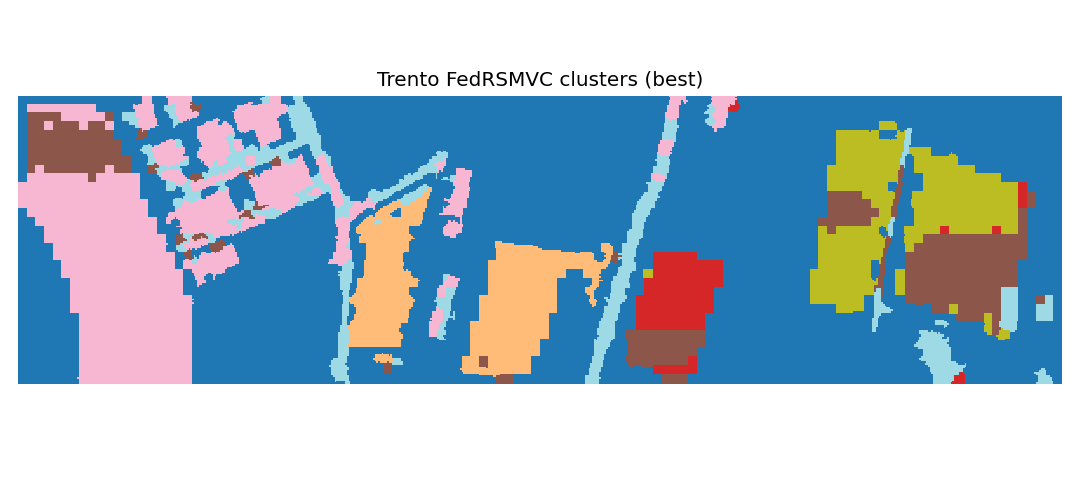
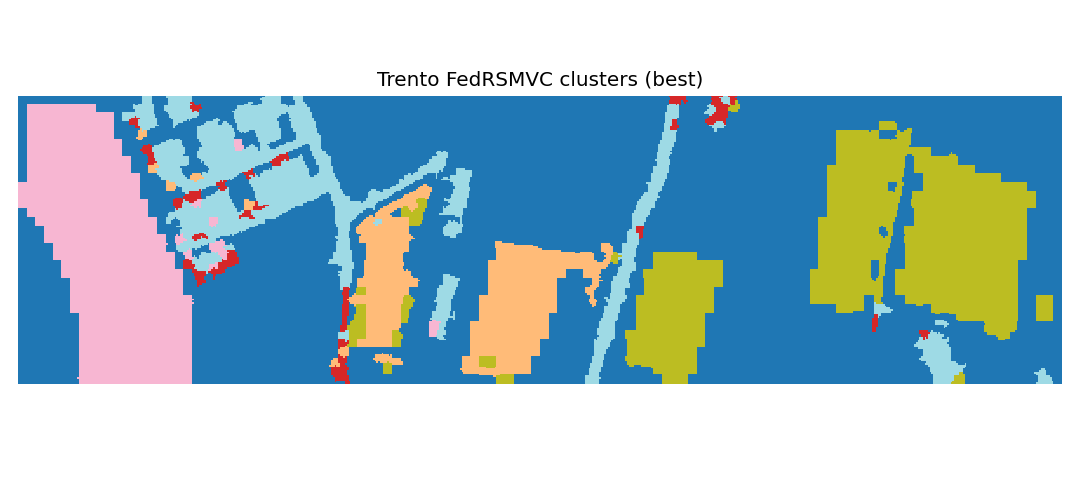
停止跟踪 save/，并回收历史里的 8.9 GB 检查点
问题：FedRSMVC 的客户端检查点写进了本目录的 save/（它内部用相对路径），
而我此前多次用 `git add -A`，把 4500 个文件（8.9 GB）提交进了仓库，导致
.git 膨胀到 8.3 GB；后续 `git add -A` 因为要哈希这些文件直接挂住。

处理：
1. .gitignore 加 save/（以及 FedRSMVC 用相对路径写出的图 *_log.csv / *_sp.pdf）
2. `git rm -r --cached save/` 取消跟踪（磁盘文件保留）
3. 回退了把 4500 个文件塞进来的那个提交，使其不可达，随后 gc 回收

教训：跑第三方框架前先确认它的输出落点，并把它加进 .gitignore。
本次是适配器不 chdir 造成的——它的 save 路径在 config 里是相对路径，
我虽改了两处为绝对路径，但模型保存走的是另一处硬编码相对路径。

另修（我引入的 bug）：FedRSMVC 适配器未播种
它的 set_seed() 定义在 main.py、由 main() 调用，而适配器直接构造 FLSimulator
不走 main()，所以完全没固定种子。实测同配置两个种子给出 Trento
0.7166 / 0.5331（差 18 个点）。已内联复刻 set_seed，验证连跑两次结果完全相同。
此前 8 条未播种记录已作废（archive/runs_含未播种FedRSMVC_2026-10-14.jsonl）。

diff --git a/methods/fedrsmvc.py b/methods/fedrsmvc.py
@@ -83,6 +83,21 @@ def run_fedrsmvc(ds, params: FedRSMVCParams | None = None, seed: int = 42,
     config["result_path"] = str(FRS_DIR / "results")
     dev = torch.device(device or ("cuda:0" if torch.cuda.is_available() else "cpu"))
 
+    # ⚠ 必须在这里播种。它的 `set_seed()` 定义在 main.py 且由 main() 调用，
+    # 而本适配器直接构造 FLSimulator、不走 main()，所以原来完全没固定种子——
+    # 实测同配置两个种子给出 0.7166 / 0.5331（差 18 个点）就是这么来的。
+    # 这里内联复刻 main.py:13-21 的 set_seed，不 import main 以免触发其模块级副作用。
+    import os
+    import random
+    random.seed(seed)
+    os.environ["PYTHONHASHSEED"] = str(seed)
+    np.random.seed(seed)
+    torch.manual_seed(seed)
+    torch.cuda.manual_seed(seed)
+    torch.cuda.manual_seed_all(seed)
+    torch.backends.cudnn.benchmark = False
+    torch.backends.cudnn.deterministic = True
+
     # ---- 探针：拦下 full_metric 收到的**原始**聚类标签（未做 oracle 映射）----
     original_full_metric = fls.full_metric
     captured: dict[str, np.ndarray] = {}
